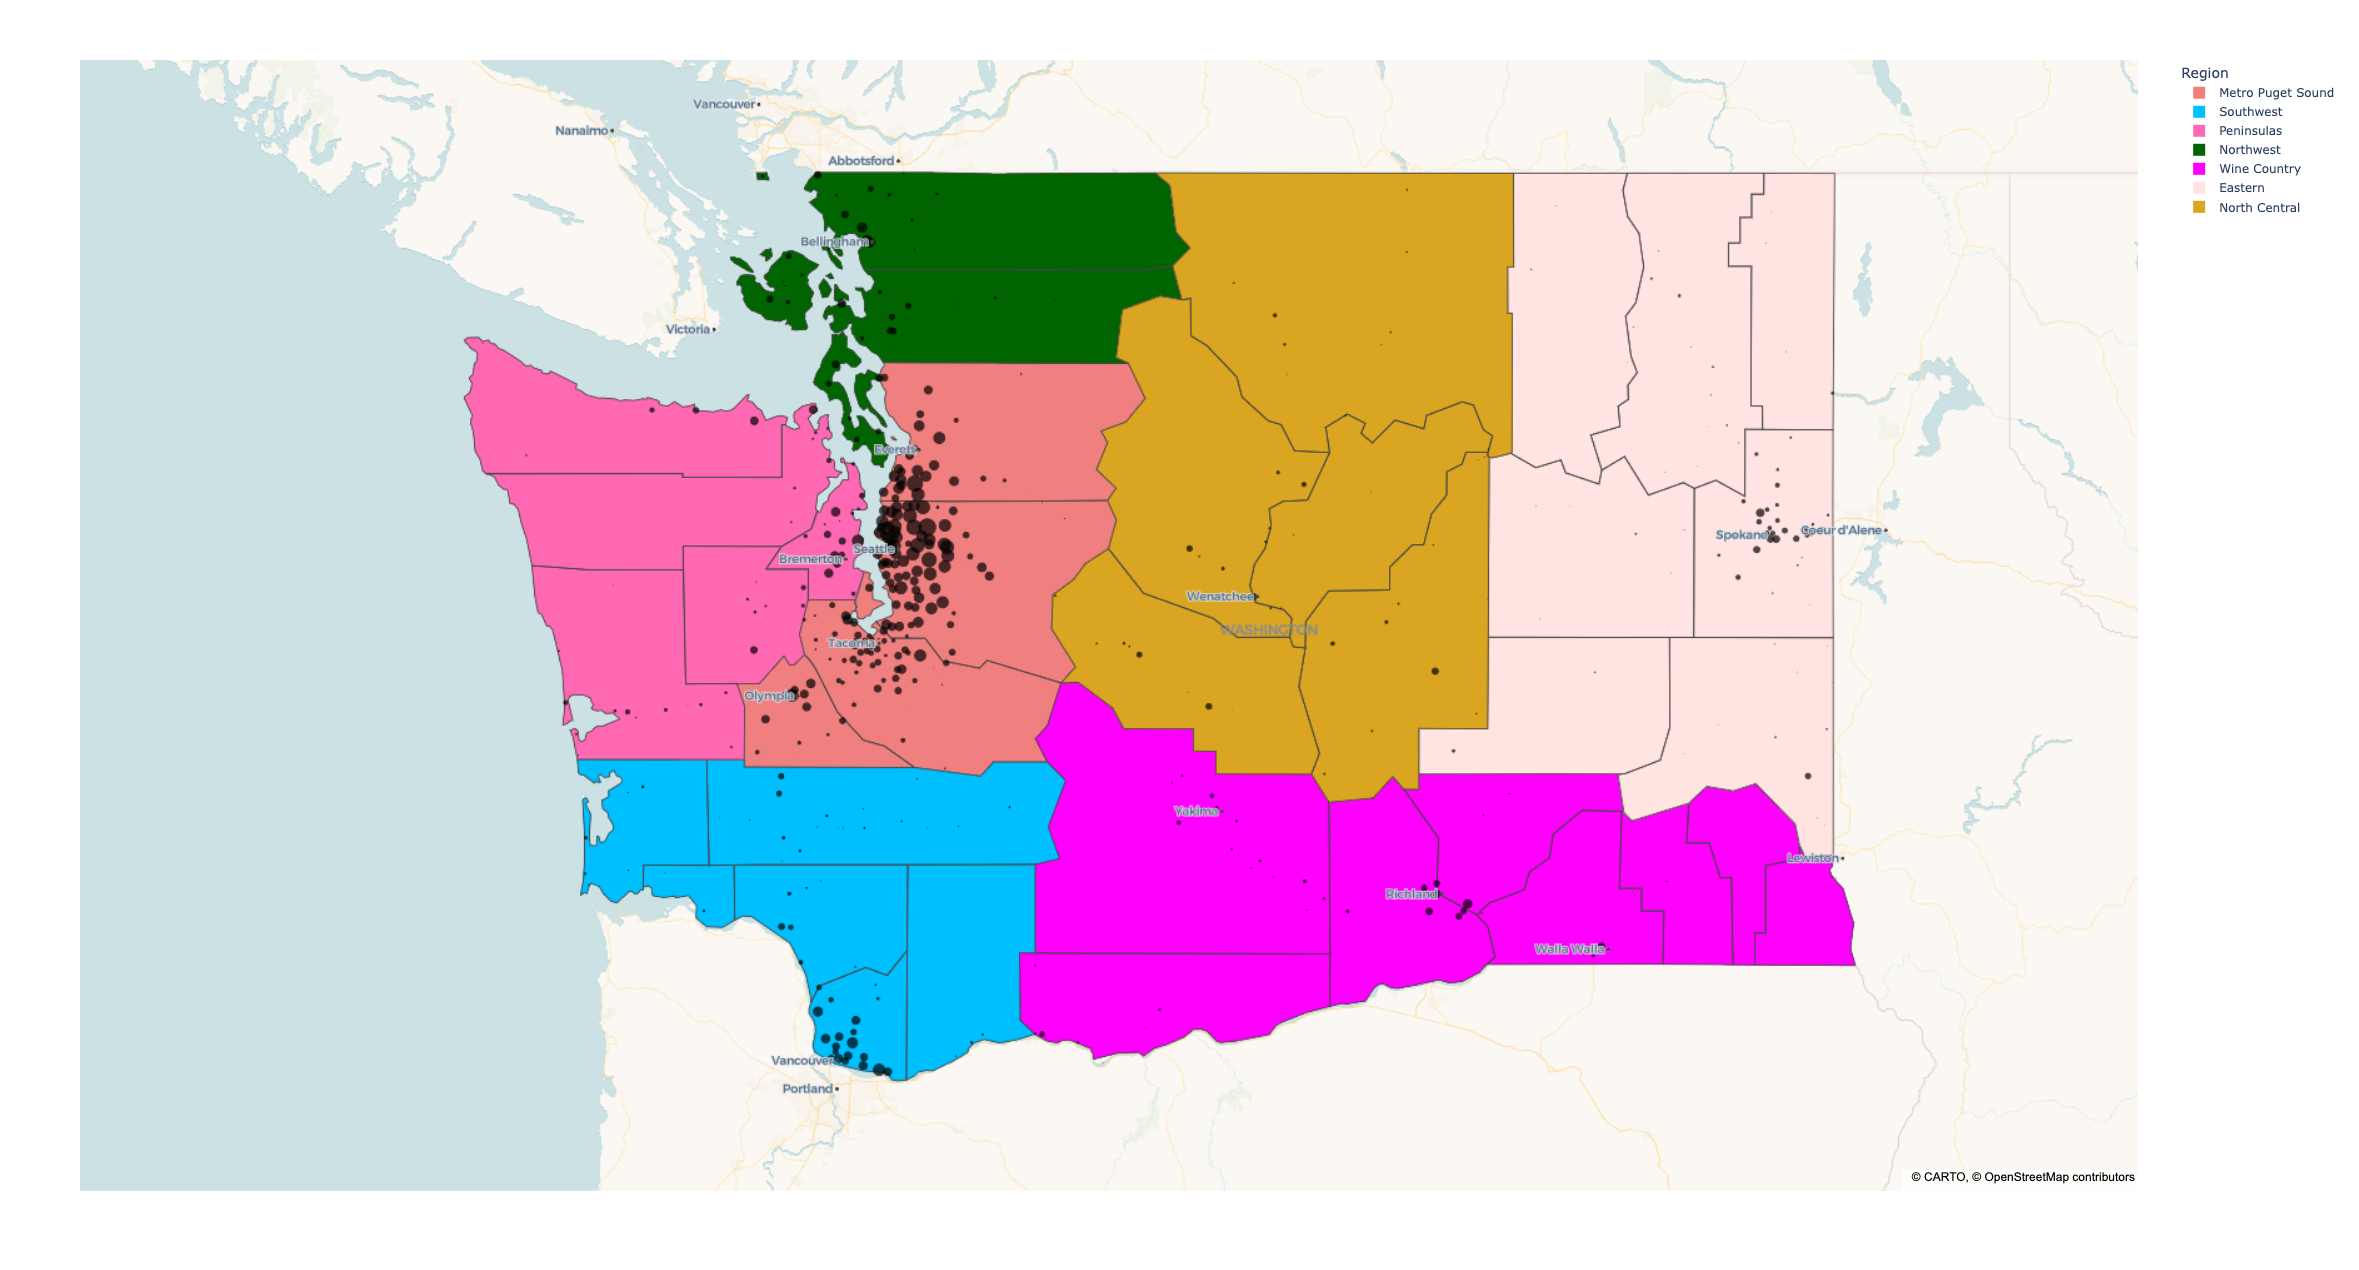
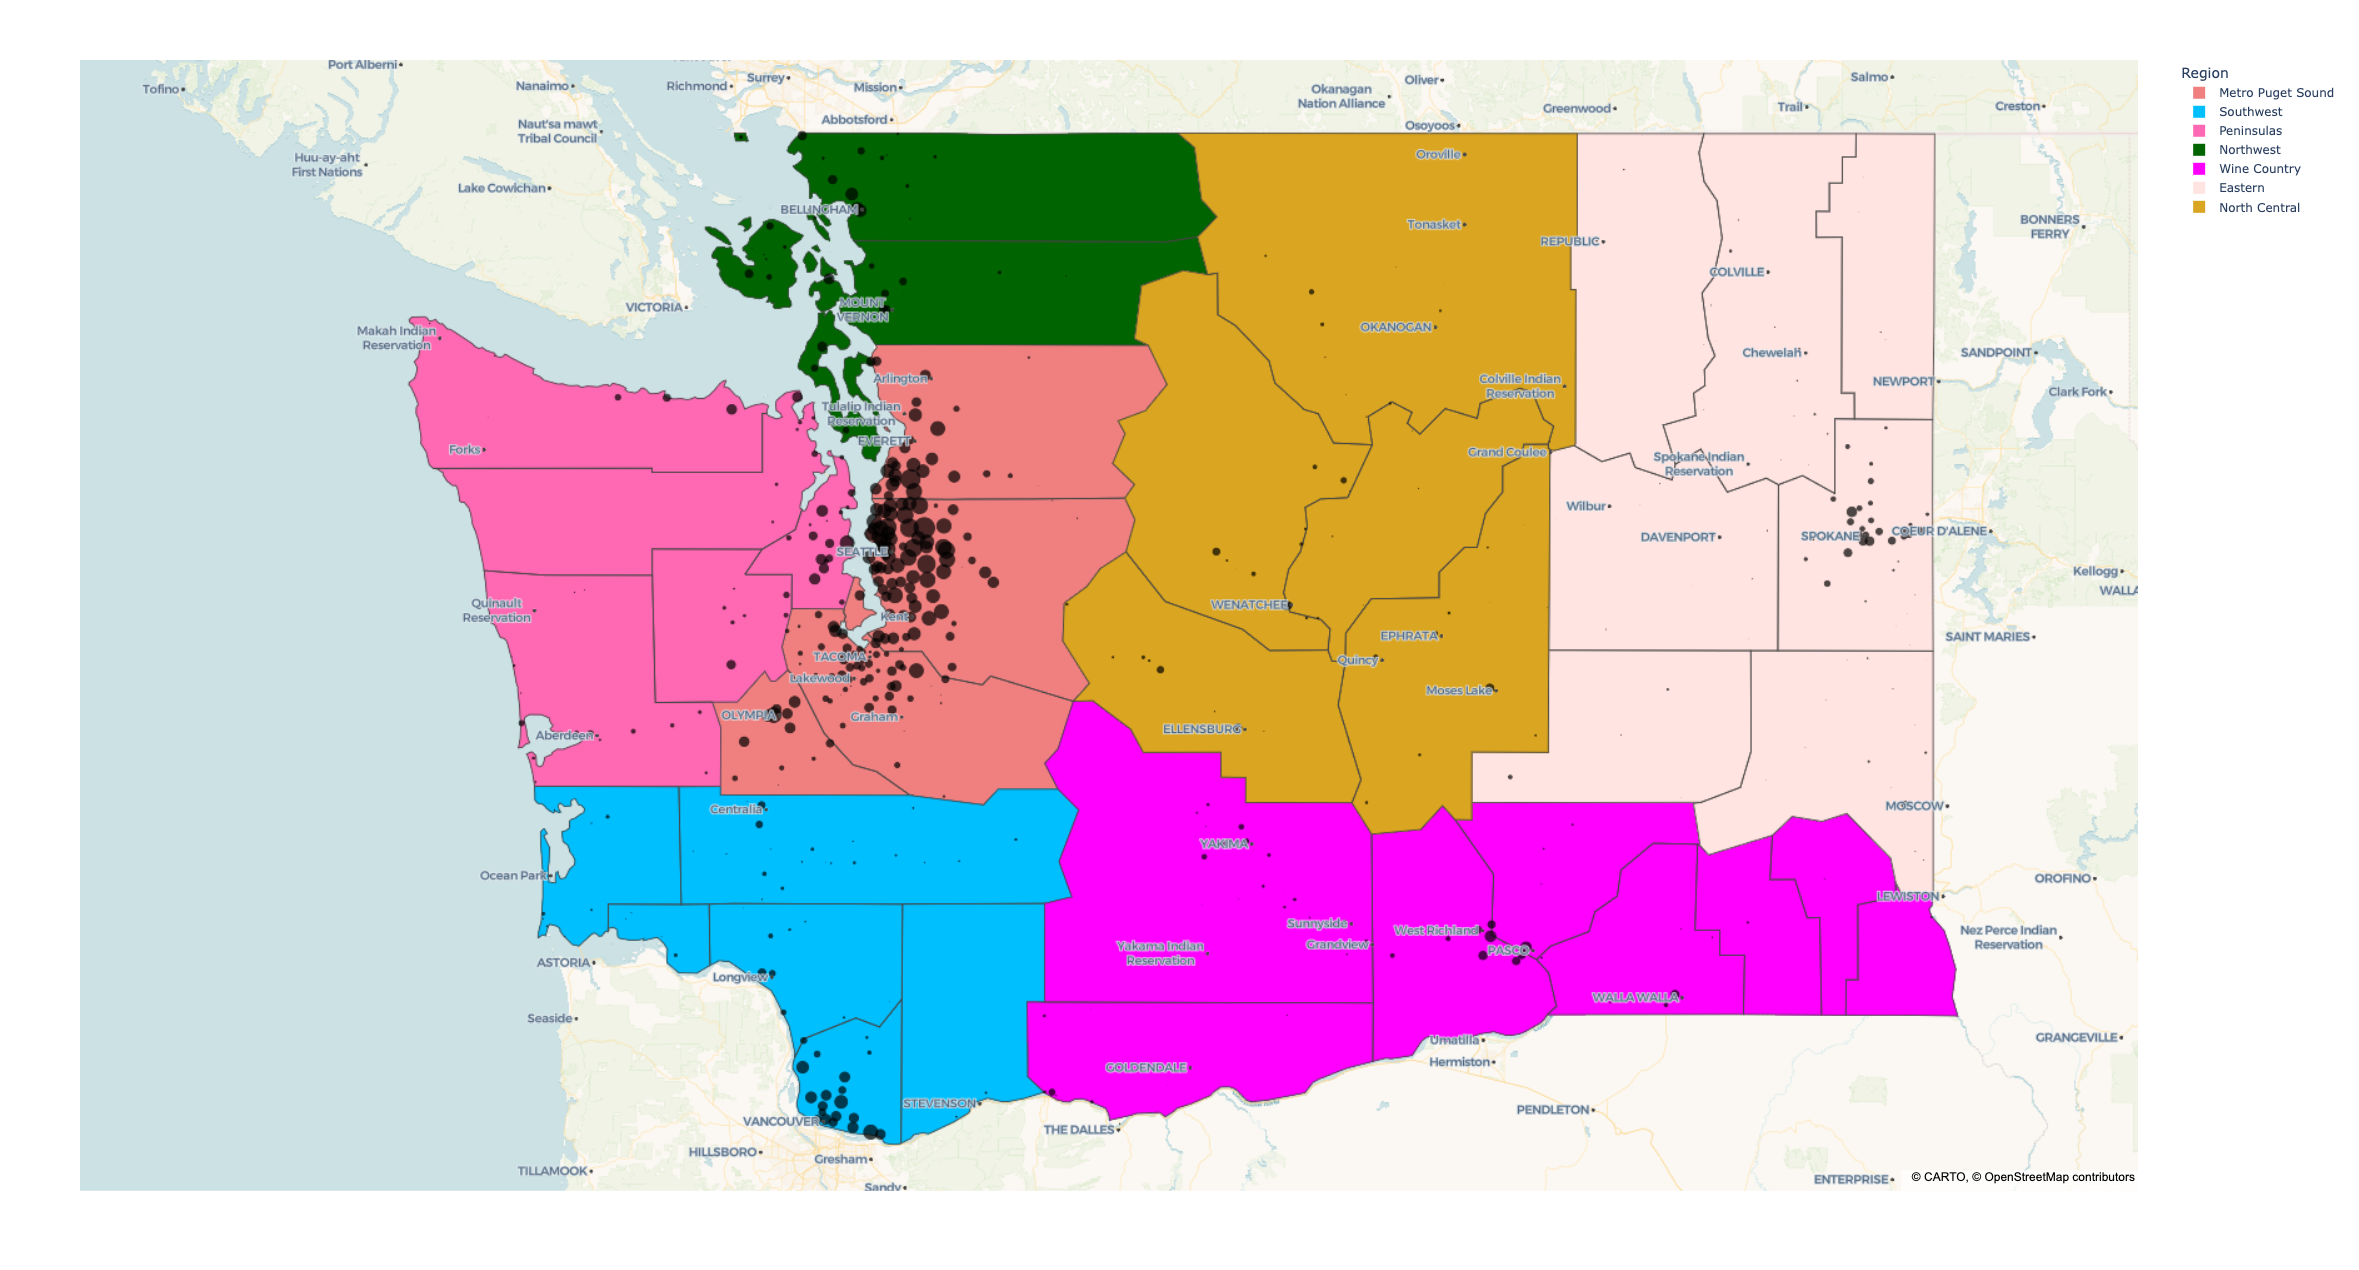
adding ev coordinate bubble plot .png in pics/ and included in readme 2

diff --git a/python_scripts/visualizations.py b/python_scripts/visualizations.py
@@ -186,7 +186,9 @@ def coord_bubble_plot(
             lon=df["Longitude"],
             mode="markers",
             marker=dict(
-                size=np.cbrt(df["Count per Coordinate"]) * 2, color="black", opacity=0.7
+                size=np.cbrt(df["Count per Coordinate"]) * 1.2,
+                color="black",
+                opacity=0.7,
             ),
             showlegend=False,
         )